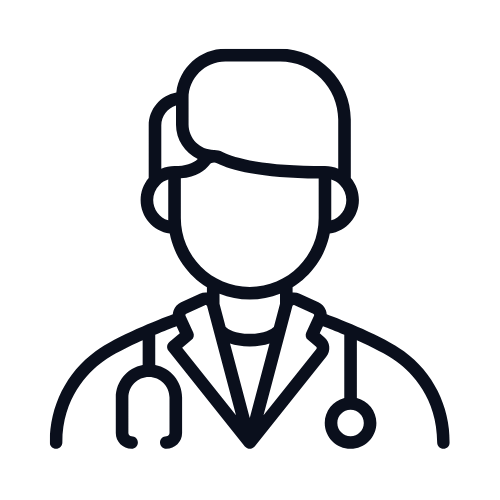
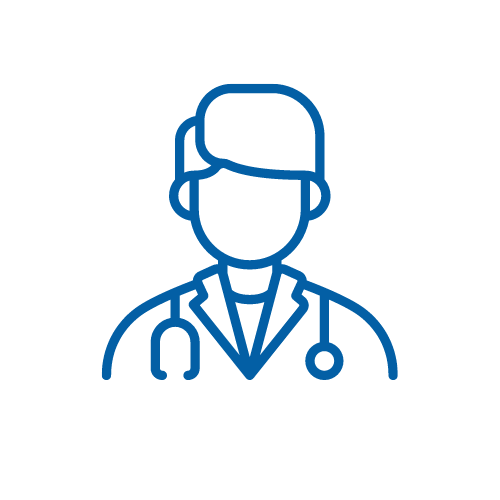
fix color img

Changed region(s): [[0.09, 0.09, 0.9, 0.9]]

diff --git a/resources/js/components/HowWorks.vue b/resources/js/components/HowWorks.vue
@@ -11,8 +11,8 @@
                     <div class="col-sm-4 text-center">
                         <figure class="how-works__img-box">
                             <img
-                                src="/img/doccolor.png"
-                                data-src="img/doccolor.png"
+                                src="/img/logomedico.png"
+                                data-src="img/logomedico.png"
                                 class="imghome img-responsive lazyload how-works__img"
                                 alt="Scegli il Medico"
                                 title="Scegli il Medico"
@@ -30,8 +30,8 @@
                     <div class="col-sm-4 text-center">
                         <figure class="how-works__img-box">
                             <img
-                                src="/img/telefonaccio.png"
-                                data-src="/img/telefonaccio.png"
+                                src="/img/logotel.png"
+                                data-src="/img/logotel.png"
                                 class="img-home img-responsive lazyload phone how-works__img"
                                 alt="Prenota la visita"
                                 title="Prenota la visita"
@@ -48,8 +48,8 @@
                     <div class="col-sm-4 text-center mb-5">
                         <figure class="how-works__img-box">
                             <img
-                                src="/img/visiting.png"
-                                data-src="/img/visiting.png"
+                                src="/img/logovis.png"
+                                data-src="/img/logovis.png"
                                 class="img-home img-responsive lazyload how-works__img"
                                 alt="Vai all'appuntamento"
                                 title="Vai all'appuntamento"
